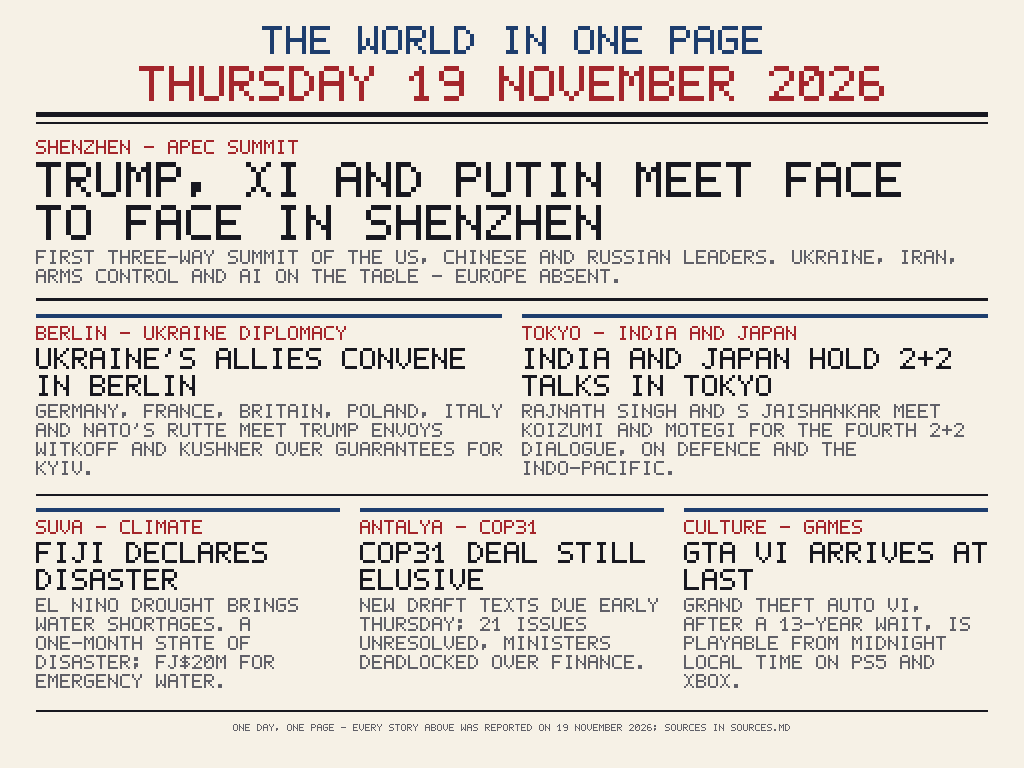
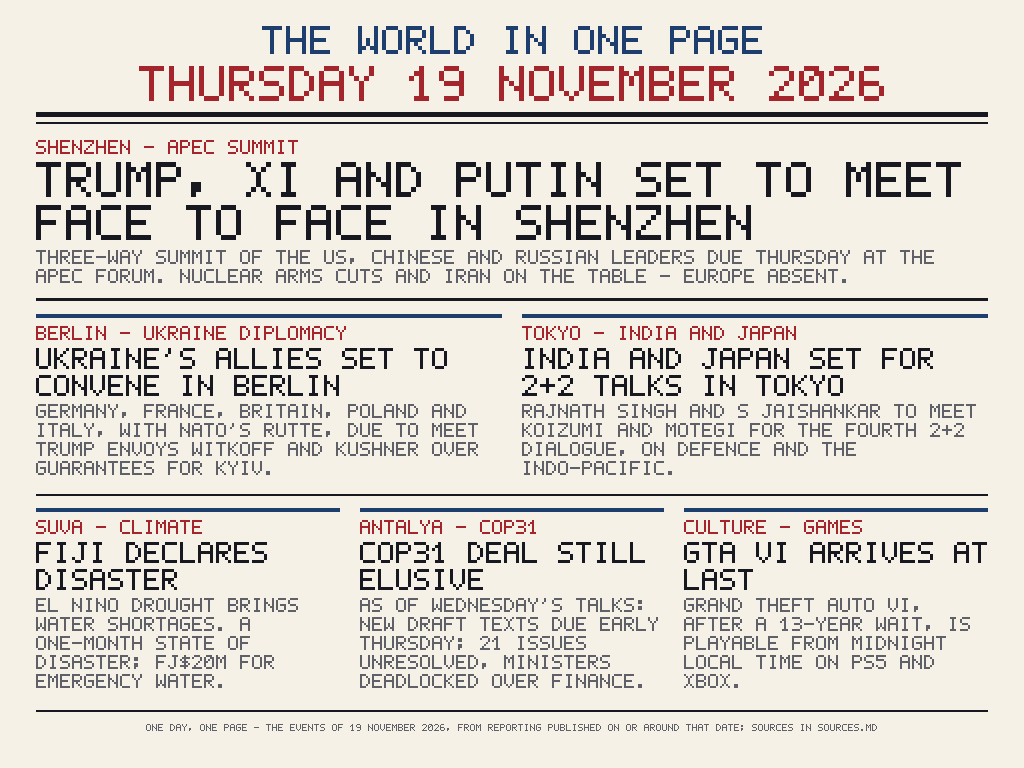
Revision: scheduled wording for Shenzhen/Berlin/Tokyo, footer date claim fixed, COP31 labelled prior-day context, GTA VI timestamp substantiated
Stage-1 review fixes (issue #1 comment 6998492355):
- Lead: SET TO MEET / DUE THURSDAY; FIRST removed (no post-event report
  existed at revision time; trilateral set for 14:30 Shenzhen per Aju Press)
- Berlin: SET TO CONVENE / DUE TO MEET; Tokyo: SET FOR / TO MEET, PIB
  publication stated exactly as 17 Nov 2026, 11:38 IST
- Footer/README/SOURCES: roundup covers 19 Nov events from reporting
  published on or around that date; no blanket reported-on-19-Nov claim
- COP31 sub now labelled AS OF WEDNESDAY'S TALKS (no verified 19 Nov update)
- GTA VI 13:49 UTC timestamp substantiated via CW7 (Nexstar) AP metadata
Tests 5/5; entry.png regenerated deterministic, 16,131 bytes.

diff --git a/main.py b/main.py
@@ -83,28 +83,30 @@ PAPER_NAME = "THE WORLD IN ONE PAGE"
 
 LEAD = {
     "kicker": "SHENZHEN - APEC SUMMIT",
-    "headline": "TRUMP, XI AND PUTIN MEET FACE TO FACE IN SHENZHEN",
+    "headline": "TRUMP, XI AND PUTIN SET TO MEET FACE TO FACE IN SHENZHEN",
     "sub": (
-        "FIRST THREE-WAY SUMMIT OF THE US, CHINESE AND RUSSIAN LEADERS. "
-        "UKRAINE, IRAN, ARMS CONTROL AND AI ON THE TABLE - EUROPE ABSENT."
+        "THREE-WAY SUMMIT OF THE US, CHINESE AND RUSSIAN LEADERS DUE "
+        "THURSDAY AT THE APEC FORUM. NUCLEAR ARMS CUTS AND IRAN ON THE "
+        "TABLE - EUROPE ABSENT."
     ),
 }
 
 PANELS = [
     {
         "kicker": "BERLIN - UKRAINE DIPLOMACY",
-        "headline": "UKRAINE'S ALLIES CONVENE IN BERLIN",
+        "headline": "UKRAINE'S ALLIES SET TO CONVENE IN BERLIN",
         "sub": (
-            "GERMANY, FRANCE, BRITAIN, POLAND, ITALY AND NATO'S RUTTE MEET "
-            "TRUMP ENVOYS WITKOFF AND KUSHNER OVER GUARANTEES FOR KYIV."
+            "GERMANY, FRANCE, BRITAIN, POLAND AND ITALY, WITH NATO'S RUTTE, "
+            "DUE TO MEET TRUMP ENVOYS WITKOFF AND KUSHNER OVER GUARANTEES "
+            "FOR KYIV."
         ),
     },
     {
         "kicker": "TOKYO - INDIA AND JAPAN",
-        "headline": "INDIA AND JAPAN HOLD 2+2 TALKS IN TOKYO",
+        "headline": "INDIA AND JAPAN SET FOR 2+2 TALKS IN TOKYO",
         "sub": (
-            "RAJNATH SINGH AND S JAISHANKAR MEET KOIZUMI AND MOTEGI FOR THE "
-            "FOURTH 2+2 DIALOGUE, ON DEFENCE AND THE INDO-PACIFIC."
+            "RAJNATH SINGH AND S JAISHANKAR TO MEET KOIZUMI AND MOTEGI FOR "
+            "THE FOURTH 2+2 DIALOGUE, ON DEFENCE AND THE INDO-PACIFIC."
         ),
     },
     {
@@ -119,8 +121,8 @@ PANELS = [
         "kicker": "ANTALYA - COP31",
         "headline": "COP31 DEAL STILL ELUSIVE",
         "sub": (
-            "NEW DRAFT TEXTS DUE EARLY THURSDAY; 21 ISSUES UNRESOLVED, "
-            "MINISTERS DEADLOCKED OVER FINANCE."
+            "AS OF WEDNESDAY'S TALKS: NEW DRAFT TEXTS DUE EARLY THURSDAY; "
+            "21 ISSUES UNRESOLVED, MINISTERS DEADLOCKED OVER FINANCE."
         ),
     },
     {
@@ -133,7 +135,7 @@ PANELS = [
     },
 ]
 
-FOOTER = "ONE DAY, ONE PAGE - EVERY STORY ABOVE WAS REPORTED ON 19 NOVEMBER 2026; SOURCES IN SOURCES.MD"
+FOOTER = "ONE DAY, ONE PAGE - THE EVENTS OF 19 NOVEMBER 2026, FROM REPORTING PUBLISHED ON OR AROUND THAT DATE; SOURCES IN SOURCES.MD"
 
 # --------------------------------------------------------------------------
 # Canvas: a flat RGB pixel buffer with rectangle and text primitives.

diff --git a/tests/test_entry.py b/tests/test_entry.py
@@ -90,6 +90,10 @@ class EntryTests(unittest.TestCase):
         self.assertEqual(mod.DATE_LINE, "THURSDAY 19 NOVEMBER 2026")
         self.assertIn("19 NOVEMBER 2026", mod.DATE_LINE)
         self.assertTrue(mod.LEAD["headline"])
+        # The footer must not claim every story was reported on 19 Nov:
+        # the source map includes reporting published 17-18 Nov.
+        self.assertNotIn("EVERY STORY ABOVE WAS REPORTED ON", mod.FOOTER)
+        self.assertIn("ON OR AROUND THAT DATE", mod.FOOTER)
         self.assertGreaterEqual(len(mod.PANELS), 4)
         for panel in mod.PANELS:
             self.assertTrue(panel["headline"])

diff --git a/SOURCES.md b/SOURCES.md
@@ -2,22 +2,26 @@
 
 This is the 19 November 2026 news roundup: every headline and sub-line in
 `entry.png` is drawn from real reporting published on or around that date,
-fetched and read on the morning of 19 November 2026 (UTC). Nothing is
-invented. Where a story is an event taking place on 19 November itself
-(a summit, a meeting, a launch day), the wording says it is happening or
-due that day — no outcome is claimed for anything that had not happened
-yet at the time of writing.
+fetched and read on the morning of 19 November 2026 (UTC), and refreshed
+at a revision later that morning after the stage-1 review. Nothing is
+invented. The roundup covers the events of 19 November; each item's event
+date and publication date are stated per item below — some of the
+reporting was published on 17-18 November. Where a story is an event
+scheduled for 19 November itself (a summit, a meeting, a launch day), the
+wording says it is due that day — no outcome is claimed for anything that
+had not happened yet at the time of writing.
 
-## Lead — "TRUMP, XI AND PUTIN MEET FACE TO FACE IN SHENZHEN"
+## Lead — "TRUMP, XI AND PUTIN SET TO MEET FACE TO FACE IN SHENZHEN"
 
-Sub: first three-way summit of the US, Chinese and Russian leaders;
-Ukraine, Iran, arms control and AI on the table; Europe absent.
+Sub: three-way summit of the US, Chinese and Russian leaders due Thursday
+at the APEC forum; nuclear arms cuts and Iran on the table; Europe absent.
 
 - Reuters (Reuters Open Interest column), "Trump-Xi-Putin summit exposes
   Europe's power deficit", 19 November 2026.
   https://www.reuters.com/commentary/reuters-open-interest/trump-xi-putin-summit-exposes-europes-power-deficit-2026-11-19/
-  Dates — event: the three leaders meet on Thursday 19 November 2026 at
-  the APEC forum in Shenzhen; publication: 19 November 2026.
+  Dates — event: the three leaders are scheduled to meet on Thursday
+  19 November 2026 at the APEC forum in Shenzhen; publication:
+  19 November 2026.
 - Reuters, "Ukraine's European allies meet in Berlin in show of support",
   19 November 2026 (corroborates the Shenzhen meeting and its timing).
   https://www.reuters.com/world/china/ukraines-european-allies-meet-berlin-show-support-2026-11-19/
@@ -27,36 +31,80 @@ Ukraine, Iran, arms control and AI on the table; Europe absent.
   for the three-way meeting after the APEC plenary).
   https://www.reuters.com/world/china/putin-trump-meet-apec-summit-no-full-scale-talks-planned-kremlin-says-2026-11-18/
   Dates — event: scheduled 19 November 2026; publication: 18 November 2026.
+- Aju Press (AJP), "An odd trio steals the limelight at APEC in
+  Shenzhen", posted 19 November 2026, 08:59 KST (fetched and read at the
+  revision) — gives the day's schedule: Trump and Xi meet first on
+  Thursday at 12:45 p.m. Shenzhen time, and Putin joins them for
+  three-way talks at 3:30 p.m. Korean time (14:30 Shenzhen time).
+  https://www.ajupress.com//view/20261119084715993
+  Dates — event: scheduled Thursday 19 November 2026 (afternoon,
+  Shenzhen); publication: 19 November 2026.
+- Correction (stage-1 review): the headline originally said the leaders
+  "MEET" and the sub called the summit the "FIRST" three-way summit. At
+  build time the cited Reuters reporting described a planned Thursday
+  meeting, and a fresh search at revision time (about 03:12 UTC) found
+  no post-event report: per Aju Press the bilateral was set for 12:45
+  and the three-way talks for 14:30 Shenzhen time, both still ahead.
+  The headline now reads "SET TO MEET" and the sub "DUE THURSDAY". The
+  word "first" was removed: the lead's cited Reuters reporting does not
+  support it (Yonhap's 19 November report did call it the leaders'
+  "first-ever trilateral summit", but the claim was dropped from the
+  image rather than carried on a source outside the lead's wire base).
+  The sub's agenda line was also narrowed to what the reporting
+  supports: nuclear arms control (Aju Press; Reuters) and Iran (US
+  officials via the wires); the earlier draft's "Ukraine and AI on the
+  table" was dropped because the US side said Ukraine was not expected
+  on the three-way agenda.
 
-## Panel — "UKRAINE'S ALLIES CONVENE IN BERLIN"
+## Panel — "UKRAINE'S ALLIES SET TO CONVENE IN BERLIN"
 
-Sub: Germany, France, Britain, Poland, Italy and NATO's Rutte meet Trump
-envoys Witkoff and Kushner over guarantees for Kyiv.
+Sub: Germany, France, Britain, Poland and Italy, with NATO's Rutte, due
+to meet Trump envoys Witkoff and Kushner over guarantees for Kyiv.
 
 - Reuters, "Ukraine's European allies meet in Berlin in show of support",
   19 November 2026.
   https://www.reuters.com/world/china/ukraines-european-allies-meet-berlin-show-support-2026-11-19/
   Dates — event: the Coalition of the Willing meeting in Berlin on
-  Thursday 19 November 2026, attended by US envoys Steve Witkoff and
-  Jared Kushner; publication: 19 November 2026.
+  Thursday 19 November 2026, with US envoys Steve Witkoff and Jared
+  Kushner due to attend; publication: 19 November 2026.
+- Correction (stage-1 review): the headline originally said the allies
+  "CONVENE" and the sub that they "MEET" the envoys, as if the meeting
+  had happened. The Reuters report (carrier metadata: published
+  19 November 2026, 00:11 UTC) describes a planned meeting — the allies
+  "plan a show of support" at a meeting that "was due to start" — and at
+  revision time (about 03:12 UTC, early morning in Berlin) no post-event
+  report existed. The headline now reads "SET TO CONVENE" and the sub
+  "DUE TO MEET".
 
-## Panel — "INDIA AND JAPAN HOLD 2+2 TALKS IN TOKYO"
+## Panel — "INDIA AND JAPAN SET FOR 2+2 TALKS IN TOKYO"
 
-Sub: Rajnath Singh and S Jaishankar meet Koizumi and Motegi for the
+Sub: Rajnath Singh and S Jaishankar to meet Koizumi and Motegi for the
 fourth 2+2 dialogue, on defence and the Indo-Pacific.
 
 - Press Information Bureau, Government of India, press release on the
   Raksha Mantri's Japan visit and the 4th India-Japan 2+2 Dialogue,
-  November 2026.
+  November 2026. The release is prospective throughout ("will
+  participate", the dialogue "to be held in Tokyo").
   https://www.pib.gov.in/PressReleasePage.aspx?PRID=2337279&reg=48&lang=1
   Dates — event: visit 18-19 November 2026, the 2+2 Dialogue in Tokyo in
-  that window; publication: November 2026 (release read 19 November).
+  that window; publication: posted 17 Nov 2026, 11:38 IST (the PIB
+  release's own posted marker); release read 19 November 2026.
 - The Hindu BusinessLine, "India, Japan to push strategic cooperation at
   2+2 talks", published 18 November 2026 (dialogue scheduled 18-19
   November; the dialogue day itself is Thursday 19 November, per The
   Hindu's report of the visit).
   https://www.thehindubusinessline.com/economy/india-japan-to-push-strategic-cooperation-at-22-talks/article71714680.ece
   Dates — event: Thursday 19 November 2026; publication: 18 November 2026.
+- Correction (stage-1 review): the headline originally said the two
+  countries "HOLD" the talks and the sub that the ministers "MEET", as
+  if the dialogue had taken place. Both cited sources describe a
+  scheduled event (the PIB release is written in the future tense), and
+  a fresh search at revision time found only further previews (PTI,
+  19 November: the ministers "are set to review" defence ties and "will
+  co-chair" the dialogue on Thursday) — no post-event report. The
+  headline now reads "SET FOR 2+2 TALKS" and the sub "TO MEET". The PIB
+  publication date is now stated exactly (17 Nov 2026, 11:38 IST); the
+  earlier draft said only "November 2026".
 
 ## Panel — "FIJI DECLARES DISASTER" (Suva — climate)
 
@@ -73,17 +121,26 @@ disaster; FJ$20M for emergency water.
 
 ## Panel — "COP31 DEAL STILL ELUSIVE" (Antalya)
 
-Sub: new draft texts due early Thursday; 21 issues unresolved; ministers
-deadlocked over finance.
+Sub: as of Wednesday's talks — new draft texts due early Thursday; 21
+issues unresolved; ministers deadlocked over finance.
 
-- Daily Republic (UN News correspondent Laura Quinones in Antalya),
-  "COP31 deadlock persists as countries launch new 'climate reality
-  check'", 18 November 2026.
+- UN News, "COP31 deadlock persists as countries launch new 'climate
+  reality check'" (Laura Quinones in Antalya), 18 November 2026 —
+  published 18 November 2026, 14:04 (UTC-5) per the story's metadata;
+  read via the Daily Republic carrier of the same UN News report.
+  https://news.un.org/en/story/2026/11/1168833
   https://dailyrepublic.in/cop31-deadlock-persists-as-countries-launch-new-climate-reality-check/
-  Dates — event: the COP31 presidency's mid-week letter states 21 issues
-  remain unresolved and new draft texts are due early Thursday
-  19 November 2026, ahead of the conference's Friday close;
-  publication: 18 November 2026.
+  Dates — event: on Wednesday 18 November the COP31 presidency's
+  mid-week letter stated 21 issues remain unresolved and new draft texts
+  are due early Thursday 19 November 2026, ahead of the conference's
+  Friday close; publication: 18 November 2026.
+- Correction (stage-1 review): this panel's status is Wednesday's, not
+  Thursday's news. A fresh search at revision time found no verified
+  19 November update — the UN News story above is dated 18 November and
+  later coverage still rested on it — so the panel is kept as clearly
+  labelled prior-day context instead: the sub now begins "AS OF
+  WEDNESDAY'S TALKS". Nothing in the panel presents the 18 November
+  position as a 19 November development.
 
 ## Panel — "GTA VI ARRIVES AT LAST" (culture — games)
 
@@ -100,6 +157,12 @@ midnight local time on PS5 and Xbox.
   Thursday 19 November 2026, rolling out region by region (New Zealand
   first); publication: 18 November 2026 (UTC), 19 November in New
   Zealand.
+- Timestamp substantiation (stage-1 review): the Louisiana First News
+  carrier page does not expose a publication timestamp in its text. The
+  13:49 UTC time above rests on the article metadata of the same AP
+  story at another Nexstar carrier, CW7 Arizona, fetched and read at
+  the revision: "Published: 2026-11-18T13:49:02+00:00".
+  https://cw7az.com/news/grand-theft-auto-vi-finally-arrives-heres-what-one-early-player-thinks/
 
 ## Honest gaps
 
@@ -112,5 +175,10 @@ midnight local time on PS5 and Xbox.
 - No sports result, health story or market close from 19 November could
   be verified from a dated primary/wire source at build time, so none is
   shown rather than padding the page with unverified items.
-- The Shenzhen and Berlin items describe meetings taking place on
-  19 November; no outcomes are claimed for either.
+- The Shenzhen, Berlin and Tokyo items describe meetings scheduled for
+  19 November; when the sources were refreshed at the revision (about
+  03:12 UTC) none of the three had yet taken place, and no outcomes are
+  claimed for any of them. The page's footer no longer claims every
+  story was reported on 19 November: the roundup covers the day's
+  events, drawn from reporting published on or around that date
+  (17-19 November, as the per-item Dates lines above show).

diff --git a/README.md b/README.md
@@ -9,11 +9,12 @@ files read, no clock — and writes it to `$MAKEFUN_OUTPUT_DIR/entry.png`
 (default `/output/entry.png`). The render is a pure function of the story
 table in the program, so two runs produce byte-identical output.
 
-The page leads on the Trump-Xi-Putin three-way meeting at the APEC forum
-in Shenzhen, with panels on the Coalition of the Willing meeting in
-Berlin, the India-Japan 2+2 dialogue in Tokyo, Fiji's El Nino state of
-disaster, the COP31 endgame in Antalya, and the launch of Grand Theft
-Auto VI.
+The page leads on the Trump-Xi-Putin three-way meeting due Thursday at
+the APEC forum in Shenzhen, with panels on the Coalition of the Willing
+meeting set for Berlin, the India-Japan 2+2 dialogue scheduled in Tokyo,
+Fiji's El Nino state of disaster, the COP31 endgame in Antalya (labelled
+as the position going into Thursday, from Wednesday's talks), and the
+launch of Grand Theft Auto VI.
 
 This is the 19 November 2026 news roundup: every headline is drawn from
 real reporting published on or around that date. `SOURCES.md` maps each
